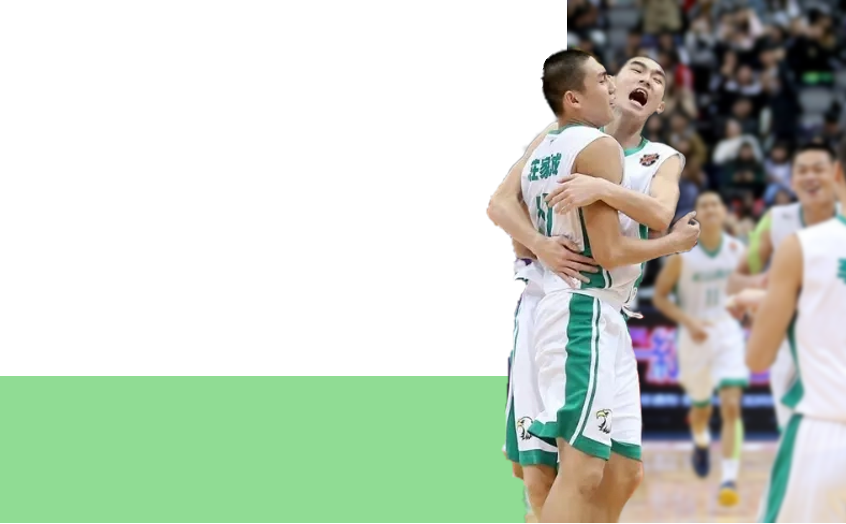
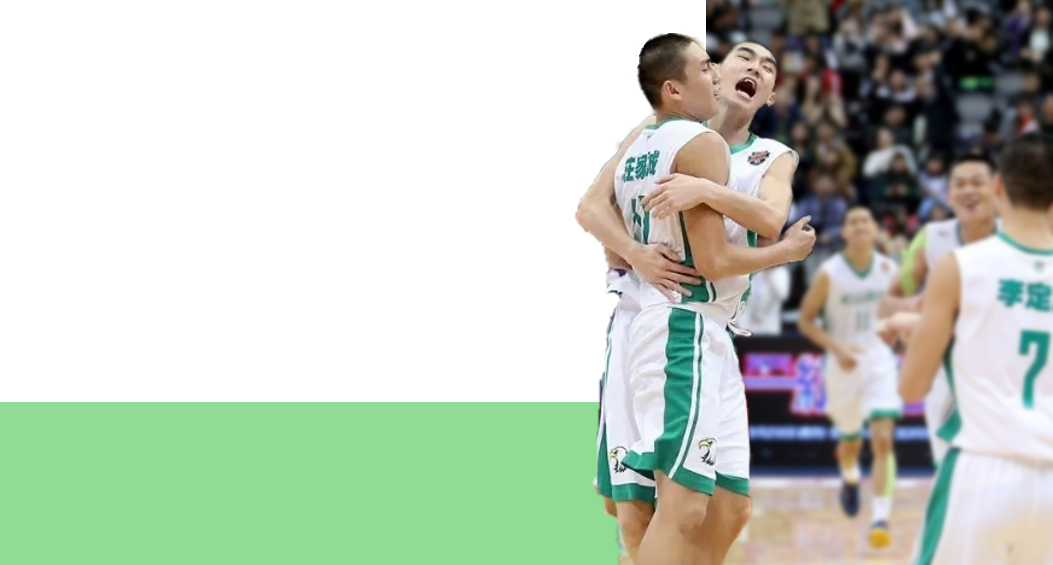
hw

diff --git a/hwstatic/index.html b/hwstatic/index.html
@@ -4,26 +4,39 @@
     <meta charset="utf-8">
     <meta content="width=device-width, initial-scale=1" name="viewport">
     <title>HW - Static Web</title>
-<!--
-    <style>
-      #reference{
-        background: url('./photos/sssh.png') no-repeat top/contain;
-        bottom: 0;
-        padding: .5em;
-        position: fixed;
-        right: 0;
-        text-align: right;
-        top: 0;
-        width:40vw;
-      }
-    </style>
--->
+    <link href="app.css" rel="stylesheet" type="text/css">
   </head>
   <body>
-    <div id="main">
+
+    <a href="http://topic.udn.com/hbl/index"> <div id="hbl"> </div> </a>
+
+    <div id="upright">
+        <a href="http://sports.tw.campaign.yahoo.net/hbl/team.php" style="text-decoration:none;">球隊</a>
+        <a href="http://twhbl.yahoo.com.tw/tagged/新聞" style="text-decoration:none;">新聞</a>
+        <a href="http://sports.tw.campaign.yahoo.net/hbl/schedule.php" style="text-decoration:none;">賽程</a>
+        <a href="http://sports.tw.campaign.yahoo.net/hbl/qualifying.php" style="text-decoration:none;">戰績</a>
+    </div>
+
+    <div id="mid">
       <h1>松山勇奪第六冠<br>完成二連霸</h1>
+      <p>「綠色神盾」松山高中11日晚間以70:60擊敗今年的奪冠熱門能仁家商，達成二連霸並收穫隊史第6冠。贏球功臣林勵攻下全場最高22分5籃板5抄截。繼去年高國豪畢業後，今年的松山高中並不像以往被看好，一路跌跌撞撞卻順利的挺進HBL冠軍賽，並成功擊敗能仁捧起金盃。</p>    
+      <div class="middown">
+        <a href="http://nownews.com/news/20180311/2715073"><div class="read">閱讀更多</div></a>      
+        <div class="author">2018/3/12文/記者<a href="http://www.google.com">陳明安</a></div>  
+      </div>
     </div>
-    <div id="reference">
+
+    <div id="down">
+      <div class="downup">
+        <div class="lefttitle">普門完成二連霸</div>
+        <div class="righttitle>精彩比賽看這裡</div>
+      </div>
+      <div class="downcontent">
+        <p1>羅培甄狂飆30分普門收下<br>隊史第二座冠軍<a href="http://sports.ltn.com.tw/news/breakingnews/1994208">《更多...》</a></p1>
+        <div class="rightcontent">HBL106學年度男子組冠軍<br>戰 松山VS能仁</div>
+      </div>
+      <a href="http://youtube.com/watch?v=-Rfz7rPj9JY"><img class="video" src='./photos/uuu.png' alt="youtube"/></a>
     </div>
+
   </body>
 </html>

diff --git a/hwstatic/app.css b/hwstatic/app.css
@@ -1,4 +1,82 @@
 body{
   background: url('./photos/sssh.png') no-repeat top/contain;
-
+  background-size: cover;
 }
+
+#hbl{
+  background-position: center;
+  background-size: contain;
+  display: inline-block;
+  width: 70px;
+  height: 30px;
+  margin: 20px 0px 0px 30px;
+}
+
+#upright{
+  margin-left: 450px;
+  margin-top: -25px;
+}
+
+#mid{
+  margin: 70px 680px 40px 120px;
+}
+
+#down{
+  margin: 90px 800px 0px 120px;
+}
+
+a{
+  color: black;
+  padding: 0px 20px;
+}
+
+#hbl{ background-image: url('./photos/hbl.png') }
+
+h1{
+  font-size: 45px;
+  font-weight: bolder;
+  margin: 0 0 3% 0;
+}
+
+p{
+  font-size: 14px;
+  line-height: 30px;
+}
+
+.middown{
+  margin-top: 50px;
+  margin-left: -20px;
+  margin-right: -12px;
+  font-size: 15px;
+  font-weight: bolder;
+  display: flex;
+  justify-content: space-between; 
+}
+
+.video{
+  display: inline-block;
+  position: absolute;
+  bottom: 20px;
+  left: 500px;
+  height: 100px;
+  width: auto;
+}
+
+.downup{
+  font-size: 18px;
+  font-weight: bolder;
+  display: flex;
+  justify-content: space-between; 
+}
+
+.righttitle{
+  padding-right:10px;
+}
+
+.downcontent{
+  padding-top: 12px;
+  font-size: 12px;;
+  display: flex;
+  justify-content: space-between;
+}
+
